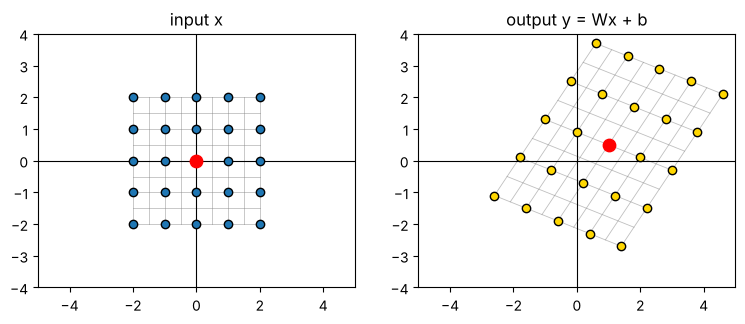
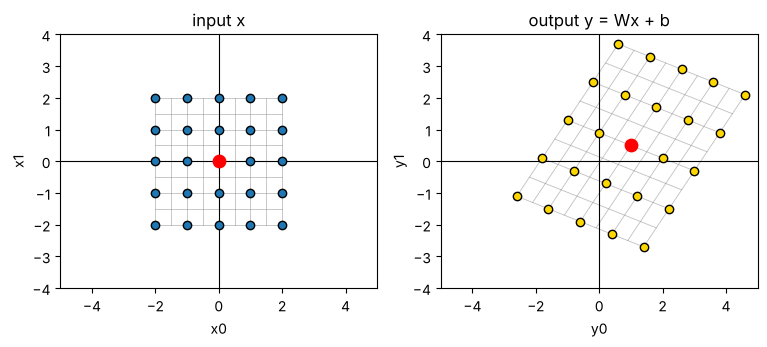
01-01: wx+b부터 보여주고 히트맵 설명 보강
- 영상: 1·x+0에서 w, b를 바꿔 본 뒤 2차원 Wx+b로 넓힘. x0/x1, y0/y1 표기 추가
- 본문: x가 2차원(또는 3차원) 데이터 한 개임을 설명, wx+b → Wx+b 흐름 추가
- 히트맵: 색(부호)과 진하기(세기), 쓰임새 중심으로 다시 설명
- 학습된 nn.Linear(64, 10) 가중치 히트맵(손글씨 숫자) 추가
- 그림 축에 x0/x1, y0/y1 이름 추가

Claude-Session: https://claude.ai/code/session_01BemXRcDwNCZpntKHHpwVx6

diff --git a/animations/01-레이어-이론/linear_layer.py b/animations/01-레이어-이론/linear_layer.py
@@ -1,4 +1,4 @@
-"""선형 레이어 y = Wx + b가 2차원 공간을 어떻게 바꾸는지 보여줍니다."""
+"""선형 레이어를 숫자 하나짜리 y = wx + b에서 시작해 2차원 y = Wx + b로 넓혀 보여줍니다."""
 
 import sys
 from pathlib import Path
@@ -8,49 +8,163 @@ sys.path.insert(0, str(Path(__file__).resolve().parents[1]))
 from manim import (
     DOWN,
     LEFT,
+    RIGHT,
     UL,
     UP,
     Create,
     Dot,
     FadeIn,
+    FadeOut,
+    Line,
+    NumberLine,
     NumberPlane,
     Scene,
+    Text,
+    Transform,
+    ValueTracker,
     VGroup,
     Write,
+    always_redraw,
 )
 
-from common.style import COLOR_BIAS, COLOR_INPUT, COLOR_OUTPUT, COLOR_WEIGHT, ko
+from common.style import COLOR_BIAS, COLOR_INPUT, COLOR_MUTED, COLOR_OUTPUT, COLOR_WEIGHT, ko
 
-# 선형 레이어의 가중치와 편향. nn.Linear(2, 2)의 weight, bias와 같은 역할입니다.
+# 2차원 선형 레이어의 가중치와 편향. 노트북의 W, b와 같은 값입니다.
 W = [[1.0, 0.8], [-0.4, 1.2]]
 B = [1.0, 0.5]
 
 
+def fmt(v: float) -> str:
+    return f"{v:.1f}".replace("-0.0", "0.0")
+
+
 class LinearLayer(Scene):
     def construct(self):
-        title = ko("선형 레이어는 공간을 바꾸는 함수예요", size=34).to_edge(UP)
+        self.one_dim()
+        self.two_dim()
+
+    def one_dim(self):
+        """숫자 하나를 받아 숫자 하나를 내는 y = wx + b. w와 b를 바꿔 봅니다."""
+        title = ko("숫자 하나부터: y = w·x + b", size=34).to_edge(UP)
         self.play(Write(title))
 
+        top = NumberLine(x_range=[-5, 5, 1], length=11).shift(UP * 1.2)
+        bottom = NumberLine(x_range=[-5, 5, 1], length=11).shift(DOWN * 1.6)
+        # 눈금 숫자는 LaTeX 없이 Text로 붙입니다.
+        for line in (top, bottom):
+            line.add(*[Text(str(n), font_size=20).next_to(line.n2p(n), DOWN, buff=0.15) for n in range(-5, 6)])
+        top_label = ko("입력 x", size=24, color=COLOR_INPUT).next_to(top, LEFT, buff=0.2)
+        bottom_label = ko("출력 y", size=24, color=COLOR_OUTPUT).next_to(bottom, LEFT, buff=0.2)
+        VGroup(top, bottom, top_label, bottom_label).shift(RIGHT * 0.4)
+
+        w = ValueTracker(1.0)
+        b = ValueTracker(0.0)
+        xs = [-2, -1, 0, 1, 2]
+
+        inputs = VGroup(*[Dot(top.n2p(x), radius=0.08, color=COLOR_INPUT) for x in xs])
+        outputs = always_redraw(
+            lambda: VGroup(
+                *[Dot(bottom.n2p(w.get_value() * x + b.get_value()), radius=0.08, color=COLOR_OUTPUT) for x in xs]
+            )
+        )
+        links = always_redraw(
+            lambda: VGroup(
+                *[
+                    Line(top.n2p(x), bottom.n2p(w.get_value() * x + b.get_value()), stroke_width=2, color=COLOR_MUTED)
+                    for x in xs
+                ]
+            )
+        )
+
+        def formula():
+            parts = VGroup(
+                ko("y = ", size=32),
+                ko(fmt(w.get_value()), size=32, color=COLOR_WEIGHT),
+                ko(" · x + ", size=32),
+                ko(fmt(b.get_value()), size=32, color=COLOR_BIAS),
+            ).arrange(RIGHT, buff=0.05)
+            return parts.move_to(UP * 2.4)
+
+        eq = always_redraw(formula)
+
+        self.play(Create(top), Create(bottom), FadeIn(top_label), FadeIn(bottom_label))
+        self.play(FadeIn(inputs), FadeIn(eq), FadeIn(links), FadeIn(outputs))
+        caption = ko("w = 1, b = 0이면 그대로예요", size=26).to_edge(DOWN)
+        self.play(FadeIn(caption))
+        self.wait(0.6)
+
+        steps = [
+            ("w가 1보다 크면 늘어나요", 2.0, 0.0),
+            ("w가 1보다 작으면 줄어들어요", 0.5, 0.0),
+            ("w가 음수면 뒤집혀요", -1.0, 0.0),
+            ("b를 더하면 통째로 옮겨져요", 1.0, 1.5),
+        ]
+        for text, w_to, b_to in steps:
+            new_caption = ko(text, size=26, color=COLOR_BIAS if b_to else COLOR_WEIGHT).to_edge(DOWN)
+            self.play(Transform(caption, new_caption), run_time=0.4)
+            self.play(w.animate.set_value(w_to), b.animate.set_value(b_to), run_time=1.5)
+            self.wait(0.6)
+
+        self.play(*[FadeOut(m) for m in self.mobjects])
+
+    def two_dim(self):
+        """숫자 2개 (x0, x1)를 받아 숫자 2개 (y0, y1)를 내는 y = Wx + b."""
+        background = NumberPlane(
+            x_range=[-6, 6], y_range=[-4, 4], background_line_style={"stroke_opacity": 0.15}, axis_config={"stroke_opacity": 0.6}
+        )
         plane = NumberPlane(x_range=[-6, 6], y_range=[-4, 4], background_line_style={"stroke_opacity": 0.5})
+        axis0 = ko("x0", size=26, color=COLOR_INPUT).move_to(background.c2p(5.6, -0.4))
+        axis1 = ko("x1", size=26, color=COLOR_INPUT).move_to(background.c2p(0.45, 3.6))
+
         points = VGroup(
             *[Dot(plane.c2p(x, y), radius=0.06, color=COLOR_INPUT) for x in range(-2, 3) for y in range(-2, 3)]
         )
-        self.play(Create(plane), FadeIn(points))
-        self.wait(0.5)
+        marked = Dot(plane.c2p(1, 1), radius=0.1, color=COLOR_INPUT)
+        marked_label = ko("(x0, x1) = (1, 1)", size=22, color=COLOR_INPUT).next_to(marked, RIGHT, buff=0.15)
 
-        step_w = ko("1. 가중치 W를 곱하면 늘어나고 기울어져요", size=26, color=COLOR_WEIGHT)
-        step_w.to_corner(UL).shift(DOWN * 0.8)
-        self.play(FadeIn(step_w))
-        self.play(plane.animate.apply_matrix(W), points.animate.apply_matrix(W), run_time=2)
-        self.wait(0.5)
+        title = ko("입력이 숫자 2개인 점 x = (x0, x1)", size=30).to_corner(UL)
+        self.play(FadeIn(background), Create(plane), FadeIn(points), FadeIn(marked), Write(title))
+        self.play(FadeIn(axis0), FadeIn(axis1), FadeIn(marked_label))
+        self.wait(0.8)
 
-        step_b = ko("2. 편향 b를 더하면 통째로 이동해요", size=26, color=COLOR_BIAS)
+        step_w = ko("1. W를 곱하면 늘어나고 기울어져요", size=26, color=COLOR_WEIGHT)
+        step_w.next_to(title, DOWN, aligned_edge=LEFT)
+        self.play(FadeIn(step_w), FadeOut(marked_label))
+        moving = VGroup(plane, points, marked)
+        self.play(moving.animate.apply_matrix(W), run_time=2)
+        self.wait(0.4)
+
+        step_b = ko("2. b를 더하면 통째로 옮겨져요", size=26, color=COLOR_BIAS)
         step_b.next_to(step_w, DOWN, aligned_edge=LEFT)
         shift = plane.c2p(*B) - plane.c2p(0, 0)
         self.play(FadeIn(step_b))
-        self.play(plane.animate.shift(shift), points.animate.shift(shift), run_time=1.5)
-        self.play(points.animate.set_color(COLOR_OUTPUT))
+        self.play(moving.animate.shift(shift), run_time=1.5)
 
-        summary = ko("y = Wx + b", size=40, color=COLOR_OUTPUT).to_edge(DOWN)
-        self.play(Write(summary))
-        self.wait(1)
+        # 출력 좌표는 같은 축에서 y0, y1로 읽어요. (1, 1)은 (2.8, 1.3)으로 옮겨집니다.
+        y0 = W[0][0] * 1 + W[0][1] * 1 + B[0]
+        y1 = W[1][0] * 1 + W[1][1] * 1 + B[1]
+        out0 = ko("y0", size=26, color=COLOR_OUTPUT).move_to(axis0)
+        out1 = ko("y1", size=26, color=COLOR_OUTPUT).move_to(axis1)
+        out_label = ko(f"(y0, y1) = ({fmt(y0)}, {fmt(y1)})", size=22, color=COLOR_OUTPUT)
+        out_label.next_to(marked, RIGHT, buff=0.15)
+        self.play(
+            points.animate.set_color(COLOR_OUTPUT),
+            marked.animate.set_color(COLOR_OUTPUT),
+            Transform(axis0, out0),
+            Transform(axis1, out1),
+            FadeIn(out_label),
+        )
+        self.wait(0.8)
+
+        # 숫자 하나짜리 식 w·x + b가 출력마다 하나씩 생겨요.
+        rows = VGroup(
+            ko(f"y0 = {fmt(W[0][0])}·x0 + {fmt(W[0][1])}·x1 + {fmt(B[0])}", size=26),
+            ko(f"y1 = {fmt(W[1][0])}·x0 + {fmt(W[1][1])}·x1 + {fmt(B[1])}", size=26),
+        ).arrange(DOWN, aligned_edge=LEFT, buff=0.15)
+        rows.to_edge(DOWN).shift(LEFT * 3)
+        self.play(FadeIn(rows))
+        self.wait(1.5)
+
+        summary = ko("y = Wx + b", size=40, color=COLOR_OUTPUT).move_to(rows)
+        self.play(Transform(rows, summary))
+        self.wait(1.2)

diff --git a/docs/01-레이어-이론/01-레이어는-공간을-바꾸는-함수.md b/docs/01-레이어-이론/01-레이어는-공간을-바꾸는-함수.md
@@ -16,12 +16,37 @@
 
 ```python
 xs = torch.arange(-2, 3, dtype=torch.float32)  # (5,)
-grid = torch.cartesian_prod(xs, xs)            # (25, 2), 각 행이 점 하나 (x, y)
+grid = torch.cartesian_prod(xs, xs)            # (25, 2), 각 행이 점 하나 (x0, x1)
 ```
+
+여기서 `x`는 x축이 아니라 **점 하나 전체**예요. 점 하나는 숫자 2개 `(x0, x1)`로 이루어진 2차원 데이터예요. 레이어를 지난 출력 `y`도 숫자 2개 `(y0, y1)`예요. 그림의 가로축은 `x0`, 세로축은 `x1`이에요.
+
+숫자가 3개면 `x = (x0, x1, x2)`인 3차원 데이터예요. 예를 들어 키, 몸무게, 나이로 사람 한 명을 나타내면 3차원 데이터 하나예요. 눈으로 보기 쉬워서 이 문서는 2차원을 써요.
 
 ## 2. 아이디어: 곱하고 더하기
 
-선형 레이어는 입력 `x`에 가중치(weight) 행렬 `W`를 곱하고 편향(bias) `b`를 더해요.
+먼저 숫자 하나를 받아 숫자 하나를 내는 경우부터 봐요. 입력 `x`에 가중치(weight) `w`를 곱하고 편향(bias) `b`를 더해요.
+
+$$
+y = w \cdot x + b
+$$
+
+맨 위 영상의 앞부분처럼 `w = 1`, `b = 0`이면 점이 그대로예요. 두 숫자를 바꾸면 이렇게 달라져요.
+
+- `w`가 1보다 크면 점 사이가 늘어나고, 1보다 작으면 줄어들어요.
+- `w`가 음수면 좌우가 뒤집혀요.
+- `b`를 더하면 모든 점이 같은 만큼 옮겨져요.
+
+입력이 숫자 2개 `(x0, x1)`이고 출력도 2개 `(y0, y1)`이면, 출력마다 이런 식이 하나씩 생겨요. 이제 출력 하나가 입력 2개를 모두 써요.
+
+$$
+\begin{aligned}
+y_0 &= W_{00} x_0 + W_{01} x_1 + b_0 \\
+y_1 &= W_{10} x_0 + W_{11} x_1 + b_1
+\end{aligned}
+$$
+
+곱하는 숫자 4개를 행렬 `W`로, 더하는 숫자 2개를 벡터 `b`로 묶으면 선형 레이어의 식이 돼요.
 
 $$
 y = Wx + b
@@ -66,7 +91,7 @@ tensor([-2., -2.]) -> tensor([-2.6000, -1.1000])
 
 ![가중치 4종류에 따른 변환: 늘이기, 회전, 기울이기, 납작하게 만들기](../images/01-레이어-이론/01-01-weights.png)
 
-마지막 `[[1, 1], [1, 1]]`은 모든 점을 한 직선 위로 납작하게 눌러요. 이렇게 정보를 잃는 변환도 있어요.
+그림의 축은 출력 `(y0, y1)`이에요. 마지막 `[[1, 1], [1, 1]]`은 모든 점을 한 직선 위로 납작하게 눌러요. 이렇게 정보를 잃는 변환도 있어요.
 
 ## 5. PyTorch의 `nn.Linear`
 
@@ -105,9 +130,31 @@ print(layer.weight.shape)
 torch.Size([4, 8])
 ```
 
-가중치를 히트맵(heatmap)으로 그리면 각 출력이 어떤 입력을 얼마나 쓰는지 보여요. 빨간 칸은 양수, 파란 칸은 음수 가중치예요.
+가중치 `(4, 8)`을 히트맵(heatmap)으로 그려 봐요. 히트맵은 숫자 표의 칸마다 값에 따라 색을 칠한 그림이에요. `i`번 행, `j`번 열의 칸은 "입력 `j`번이 출력 `i`번에 주는 영향"이에요.
+
+- 가중치가 양수면 빨간색, 음수면 파란색이에요.
+- 영향이 강하면(0에서 멀면) 진하고, 약하면(0에 가까우면) 연해요.
+
+그래서 히트맵을 보면 결과에 영향이 큰 입력과 거의 무시되는 입력을 한눈에 구분할 수 있어요. 모델이 입력의 어느 부분을 보고 판단하는지 살펴볼 때 써요.
 
 ![nn.Linear(8, 4)의 가중치 히트맵](../images/01-레이어-이론/01-01-heatmap.png){ width="550" }
+
+방금 만든 레이어는 가중치가 무작위 값이라 뚜렷한 무늬가 없어요.
+
+### 학습된 가중치는 무늬가 보여요
+
+학습을 마친 레이어의 히트맵을 봐요. 8×8 픽셀 손글씨 숫자 이미지(입력 64개)를 받아 숫자 0~9의 점수(출력 10개)를 내는 `nn.Linear(64, 10)`을 학습시켰어요. 학습 방법은 [01-04](04-학습-루프로-분류-모델-만들기.md)에서 다루고, 여기서는 결과만 봐요.
+
+가중치 `(10, 64)`의 행 하나는 출력 하나에 대한 입력 64개의 영향이에요. 이 행을 8×8로 다시 펼치면 이미지의 어느 픽셀이 그 숫자의 점수를 올리고 내리는지 보여요.
+
+![숫자별 평균 이미지와 학습된 nn.Linear(64, 10)의 가중치 히트맵](../images/01-레이어-이론/01-01-trained-heatmap.png)
+
+- 위 줄은 숫자마다 평균 이미지, 아래 줄은 그 숫자 점수에 쓰는 가중치예요.
+- `weight[0]`은 동그라미 테두리가 붉고 가운데가 파래요. 테두리에 잉크가 있으면 0의 점수가 오르고, 가운데에 잉크가 있으면 내려가요.
+- `weight[7]`은 오른쪽 위가 붉고 아래쪽이 파래요. 7의 윗줄 자리에 잉크가 있으면 점수가 올라요.
+- 맨 왼쪽과 오른쪽 가장자리 열은 거의 흰색이에요. 손글씨가 거의 지나가지 않는 곳이라 점수에 영향이 작아요.
+
+무작위 가중치와 달리 학습된 가중치는 히트맵만 봐도 모델이 입력의 어느 부분을 중요하게 보는지 읽을 수 있어요.
 
 출력 0번은 가중치 0번 행과 입력을 곱해 모두 더하고(가중합), 편향 0번을 더한 값이에요. 직접 계산해서 확인해요.
 
@@ -122,7 +169,7 @@ print(manual.item(), y[0, 0].item())
 
 ## 정리
 
-- 선형 레이어는 `y = Wx + b`예요. `W`는 공간을 늘이고 기울이고, `b`는 옮겨요.
+- 선형 레이어는 숫자 하나짜리 `y = w·x + b`를 여러 입력, 여러 출력으로 넓힌 `y = Wx + b`예요. `W`는 공간을 늘이고 기울이고, `b`는 옮겨요.
 - `nn.Linear(입력 수, 출력 수)`의 가중치 모양은 `(출력 수, 입력 수)`이고, 입력의 마지막 축만 바꿔요.
 - 학습은 원하는 변환이 나오도록 `W`와 `b`를 찾는 일이에요.
 
